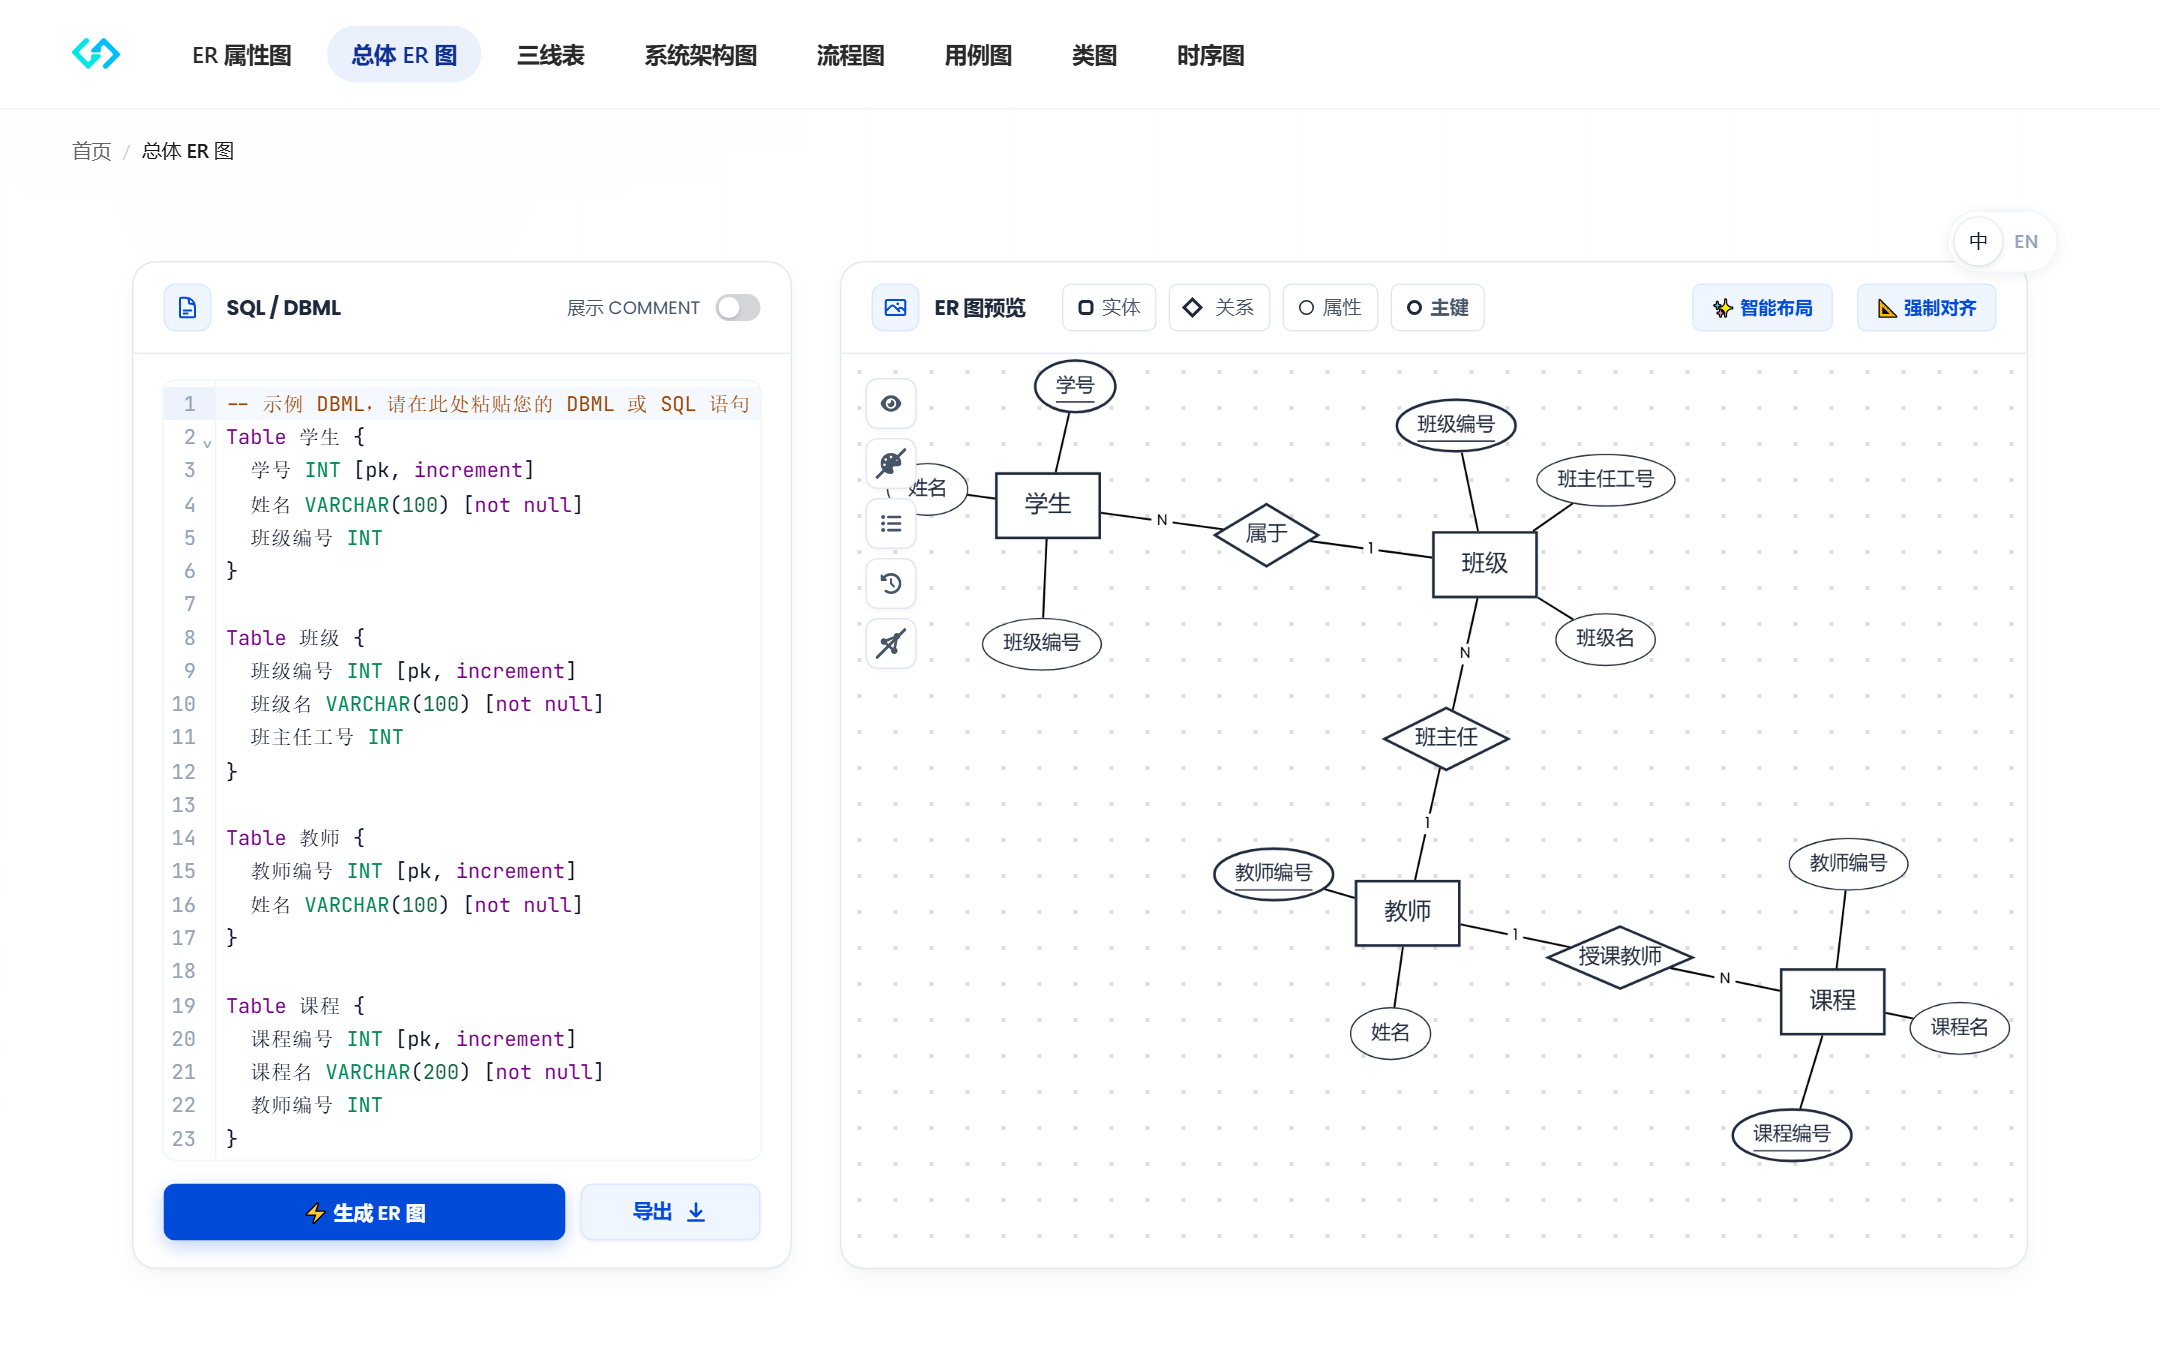
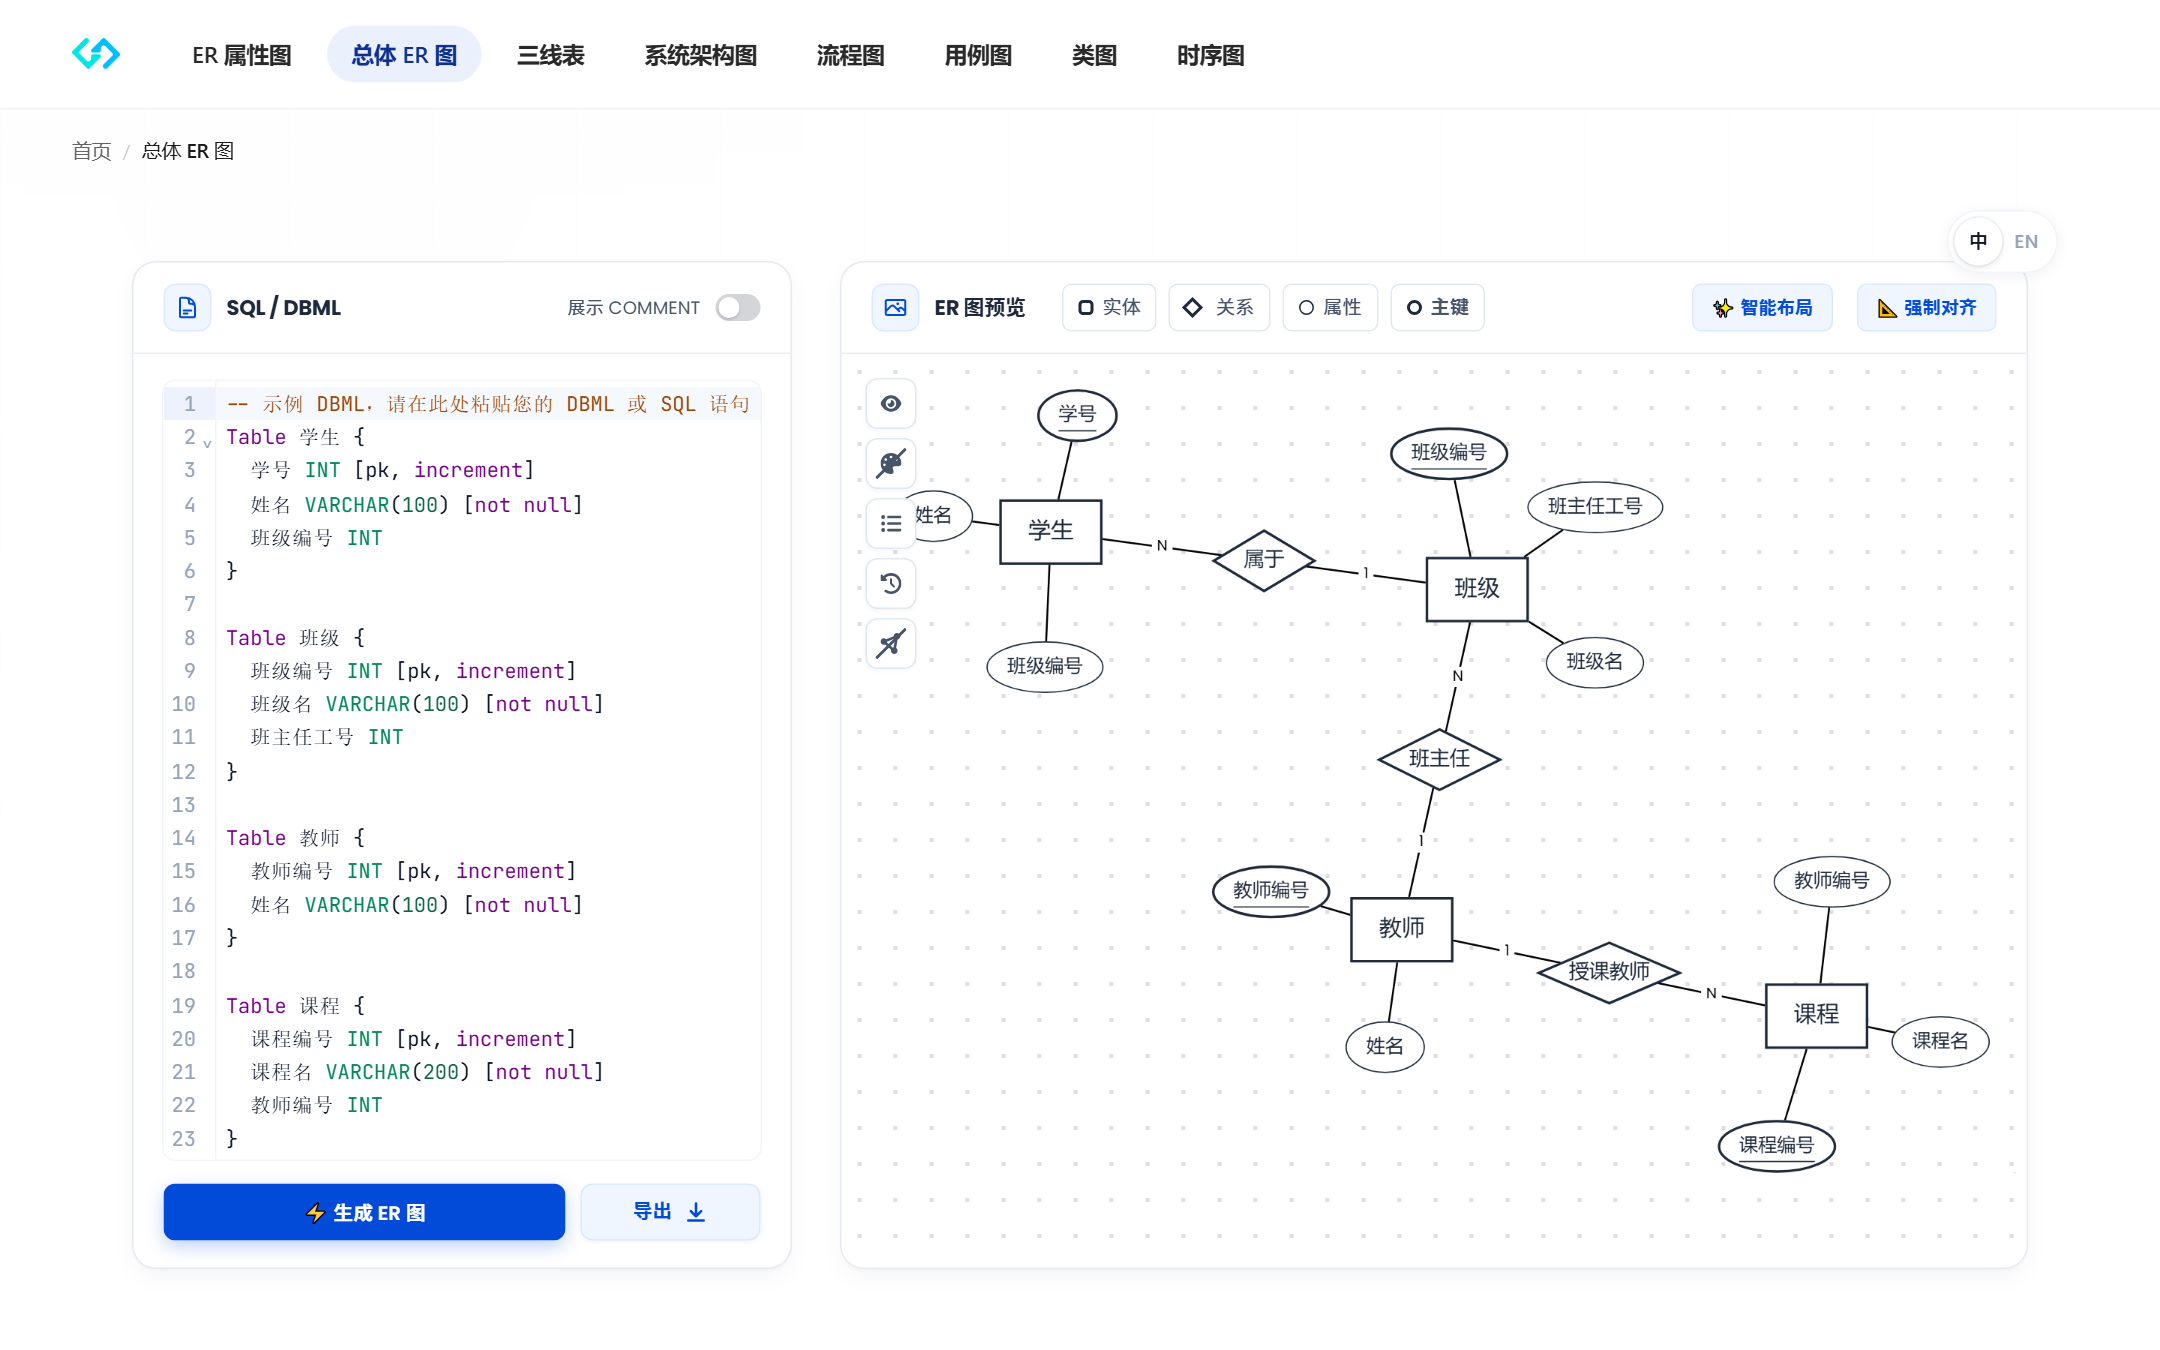
docs: add real screenshots and comprehensive specifications for all 8 academic diagrams

diff --git a/README.md b/README.md
@@ -16,7 +16,7 @@
     <a href="https://github.com/Anlon-27/sql2diagram/stargazers"><img src="https://img.shields.io/github/stars/Anlon-27/sql2diagram?style=flat-square&color=2563eb" alt="GitHub Stars" /></a>
     <a href="LICENSE"><img src="https://img.shields.io/badge/License-CC_BY--NC--SA_4.0-f97316.svg?style=flat-square" alt="License" /></a>
     <img src="https://img.shields.io/badge/Pure_Frontend-100%25-10b981.svg?style=flat-square" alt="Pure Frontend" />
-    <img src="https://img.shields.io/badge/Vue-3.5-41b883.svg?style=flat-square&logo=vuedotjs" alt="Vue 3" />
+    <img src="https://img.shields.io/badge/Vue-3.5-41b883.svg?style=flat-square&logo=vue.js&logoColor=white" alt="Vue 3" />
     <img src="https://img.shields.io/badge/AntV-G6_4.8-1890ff.svg?style=flat-square" alt="AntV G6" />
     <img src="https://img.shields.io/badge/Export-300_DPI-8b5cf6.svg?style=flat-square" alt="300 DPI Export" />
   </p>
@@ -47,7 +47,7 @@
 
 ---
 
-## 📸 核心图表工作区预览（8 大规范图种）
+## 📸 核心图表工作区详解（8 大学术规范图种）
 
 <table border="0" width="100%">
   <tr>
@@ -74,31 +74,59 @@
       <sub>展现层、业务逻辑层、数据持久层、基础设施层清晰分层，预设微服务与 MVC 答辩架构模板。</sub>
     </td>
   </tr>
+  <tr>
+    <td width="50%" align="center">
+      <img src="public/screenshots/06-flowchart.png" alt="业务流程图" style="border-radius: 8px; border: 1px solid #e5e7eb;" /><br/>
+      <b>📌 5. 业务与算法流程图（Flowchart 工作区）</b><br/>
+      <sub>标准规范图元：起止圆角框、处理矩形、分支判断菱形与流向标签，轻松表达算法流与审批流。</sub>
+    </td>
+    <td width="50%" align="center">
+      <img src="public/screenshots/07-usecase.png" alt="UML用例图" style="border-radius: 8px; border: 1px solid #e5e7eb;" /><br/>
+      <b>📌 6. UML 需求用例图（Use Case 工作区）</b><br/>
+      <sub>清晰勾勒系统边界、业务参与者（Actor）、功能用例气泡及 `&lt;&lt;include&gt;&gt;` / `&lt;&lt;extend&gt;&gt;` 关系。</sub>
+    </td>
+  </tr>
+  <tr>
+    <td width="50%" align="center">
+      <img src="public/screenshots/08-classdiagram.png" alt="UML类图" style="border-radius: 8px; border: 1px solid #e5e7eb;" /><br/>
+      <b>📌 7. UML 面向对象类图（Class Diagram 工作区）</b><br/>
+      <sub>三格标准类图规范（类名、属性字段、方法函数），支持类继承、接口实现、聚合与关联多重度。</sub>
+    </td>
+    <td width="50%" align="center">
+      <img src="public/screenshots/09-sequence.png" alt="UML时序图" style="border-radius: 8px; border: 1px solid #e5e7eb;" /><br/>
+      <b>📌 8. UML 交互时序图 / 顺序图（Sequence 工作区）</b><br/>
+      <sub>极简时序语法秒级排版，支持对象生命线、激活期、同步/异步消息传递及 alt/opt/loop 条件片段。</sub>
+    </td>
+  </tr>
 </table>
 
-### 全套毕设与软件工程图表生成矩阵：
+### 全套 8 大毕设与软件工程图表生成矩阵详解：
 
-1. **SQL 转 ER 属性图（陈氏模型）**：
+1. **SQL 转 ER 属性图（陈氏模型 / Chen's ER Model）**：
    - 智能语法分析：支持主流数据库 `CREATE TABLE` 脚本，自动提取表名实体与列名属性；
    - 严格学术标注：主键自动添加标准下划线，支持复合主键与自增字段识别；
    - 交互式拖拽：节点智能吸附、连线平滑防遮挡、字号与间距参数灵活可调。
-2. **总体 ER 图（全局实体关联关系）**：
+2. **总体 ER 图（全局实体关联关系 / G6 Overall ER）**：
    - 多表联合推导：从外键（Foreign Key）与关联字段自动推导表间联系；
    - 现代化视觉：基于 AntV G6 图引擎，透明磨砂网格画布，支持超大图视口缩放与平移。
-3. **学术三线表（GB/T 科技论文规范）**：
-   - 答辩必备：一键将数据表 DDL 转化为规范的学术三线表（顶线、底线、栏目线）；
+3. **学术三线表（GB/T 科技论文规范表格）**：
+   - 答辩必备：一键将数据表 DDL 转化为规范的学术三线表（顶线 1.5pt、底线 1.5pt、栏目线 0.75pt）；
    - 多样导出：支持高倍超清图片导出与结构化复制，直插 Word 完美契合版心。
-4. **系统分层架构图**：
+4. **系统分层架构图（软件工程架构设计）**：
    - 模块化拖拽布局：支持自由增删层级、调整模块顺序与连接拓扑线；
    - 学术科技美感：蓝白轻量配色，符合软件工程设计报告（SRS）与毕设论文正文审美。
-5. **业务流程图（Flowchart）**：
-   - 标准流图元：包含起始/结束框、业务处理框、判定条件菱形框、流向线与分支标签。
-6. **UML 用例图（Use Case）**：
-   - 参与者 Actor（小人图元）、系统边界矩形、业务用例椭圆及 `<<include>>` / `<<extend>>` 依赖关系。
-7. **UML 类图（Class Diagram）**：
-   - 规范三格类结构（类名、属性域、方法域），支持继承（泛化）、实现、聚合与关联多重度标记。
-8. **UML 时序图 / 顺序图（Sequence Diagram）**：
-   - 极简脚本语法驱动对象生命线与消息流传递，原生支持同步调用、异步返回及 `alt`/`opt`/`loop` 交互片段。
+5. **业务流程图（算法流程 / 审批流 / Flowchart）**：
+   - 标准流图元：包含起始/结束框、业务处理框、判定条件菱形框、流向线与分支条件标签；
+   - 自动排版对齐：解决手动对齐费时费力的问题，保证连线正交规范。
+6. **UML 用例图（需求分析 / Use Case Diagram）**：
+   - 包含参与者 Actor（小人图元）、系统边界矩形框、业务用例椭圆及用例包含关系；
+   - 论文需求分析章节专用，清晰表达各角色权限与操作场景。
+7. **UML 类图（面向对象建模 / Class Diagram）**：
+   - 规范三格类结构（类名、属性域、方法操作域）；
+   - 支持类继承（泛化）、接口实现、组合、聚合与关联多重度标记（1..*, 0..1）。
+8. **UML 时序图 / 顺序图（动态交互 / Sequence Diagram）**：
+   - 极简脚本语法驱动对象生命线与消息流传递；
+   - 原生支持同步调用、异步返回、激活期条块及 `alt` 条件分支、`loop` 循环交互片段。
 
 ---
 
